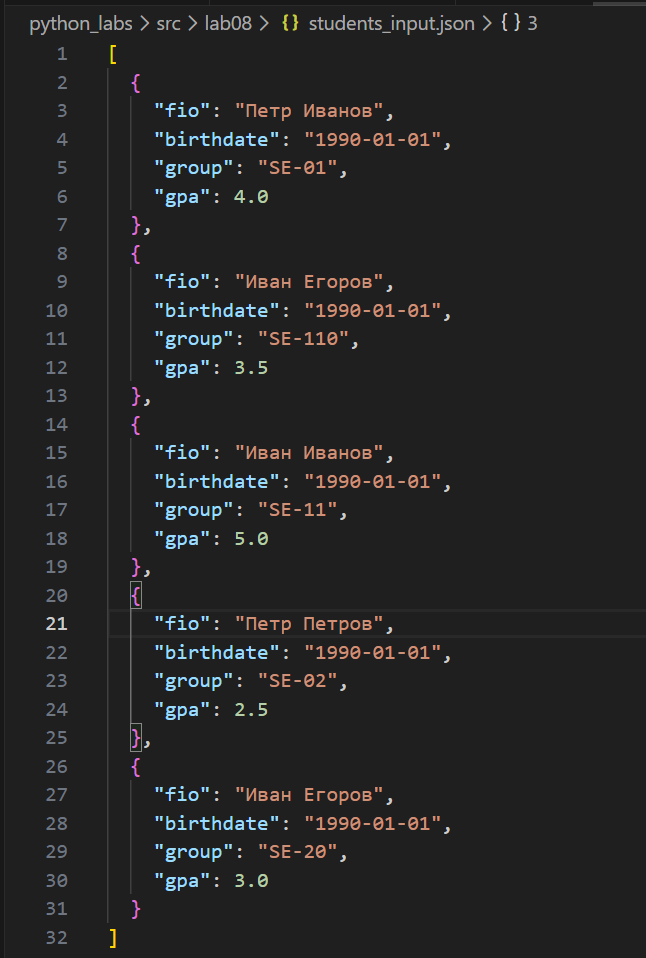
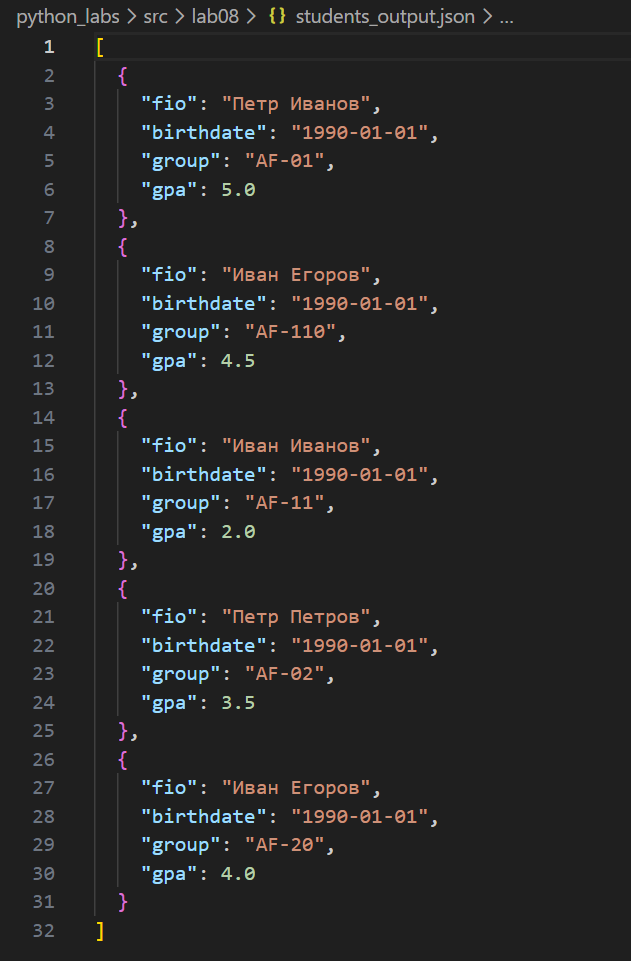
readme

diff --git a/src/lab08/test_models_serialize.py b/src/lab08/test_models_serialize.py
@@ -2,11 +2,11 @@ import models
 import serialize
 
 student_list = [
-    models.Student('Петр Иванов', '1990-01-01', 'SE-01', 4.0),
-    models.Student('Иван Егоров', '1990-01-01', 'SE-110', 3.5),
-    models.Student('Иван Иванов', '1990-01-01', 'SE-11', 5.0),
-    models.Student('Петр Петров', '1990-01-01', 'SE-02', 2.5),
-    models.Student('Иван Егоров', '1990-01-01', 'SE-20', 3.0),
+    models.Student('Петр Иванов', '1990-01-01', 'AF-01', 5.0),
+    models.Student('Иван Егоров', '1990-01-01', 'AF-110', 4.5),
+    models.Student('Иван Иванов', '1990-01-01', 'AF-11', 2.0),
+    models.Student('Петр Петров', '1990-01-01', 'AF-02', 3.5),
+    models.Student('Иван Егоров', '1990-01-01', 'AF-20', 4.0),
 ]
 
 print('*** 1) ДЕМО ПЕЧАТИ СТУДЕНТОВ ***')
@@ -15,10 +15,10 @@ for index, student_obj in enumerate(student_list):
     print(f'{index+1} студент: {student_obj}')
 
 print('*** 2) ДЕМО СЕРИАЛИЗАЦИИ СТУДЕНТОВ ***')
-serialize.students_to_json(student_list, 'students.json')
+serialize.students_to_json(student_list, 'students_output.json')
 
 print('*** 3) ДЕМО ДЕСЕРИАЛИЗАЦИИ СТУДЕНТОВ ***')
-loaded_students = serialize.students_from_json('students.json')
+loaded_students = serialize.students_from_json('students_output.json')
 
 for index, student_obj in enumerate(loaded_students):
     print(f'{index+1} студент: {student_obj}')
